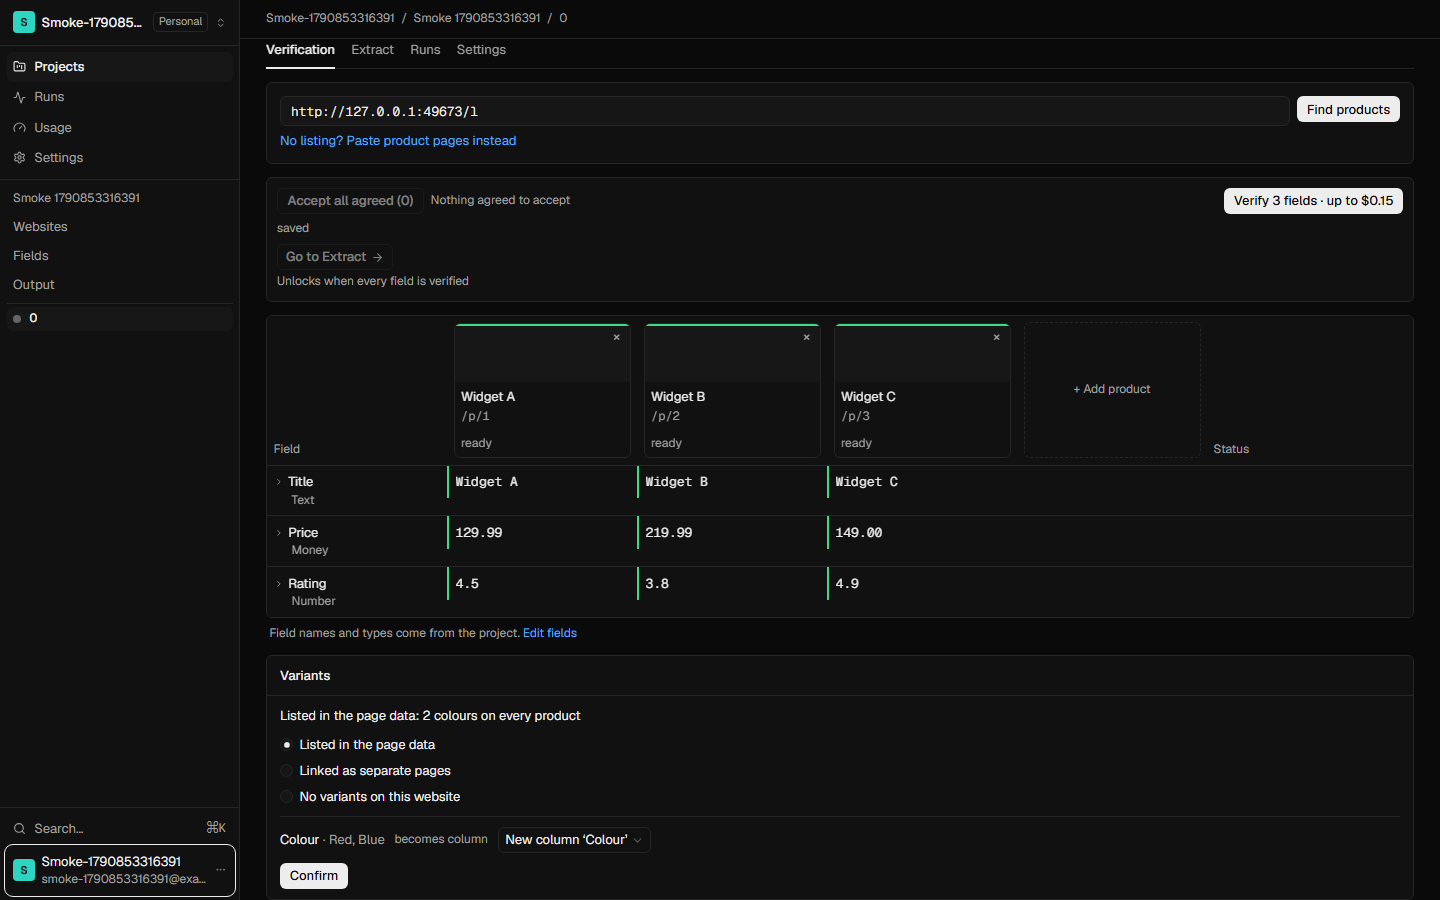
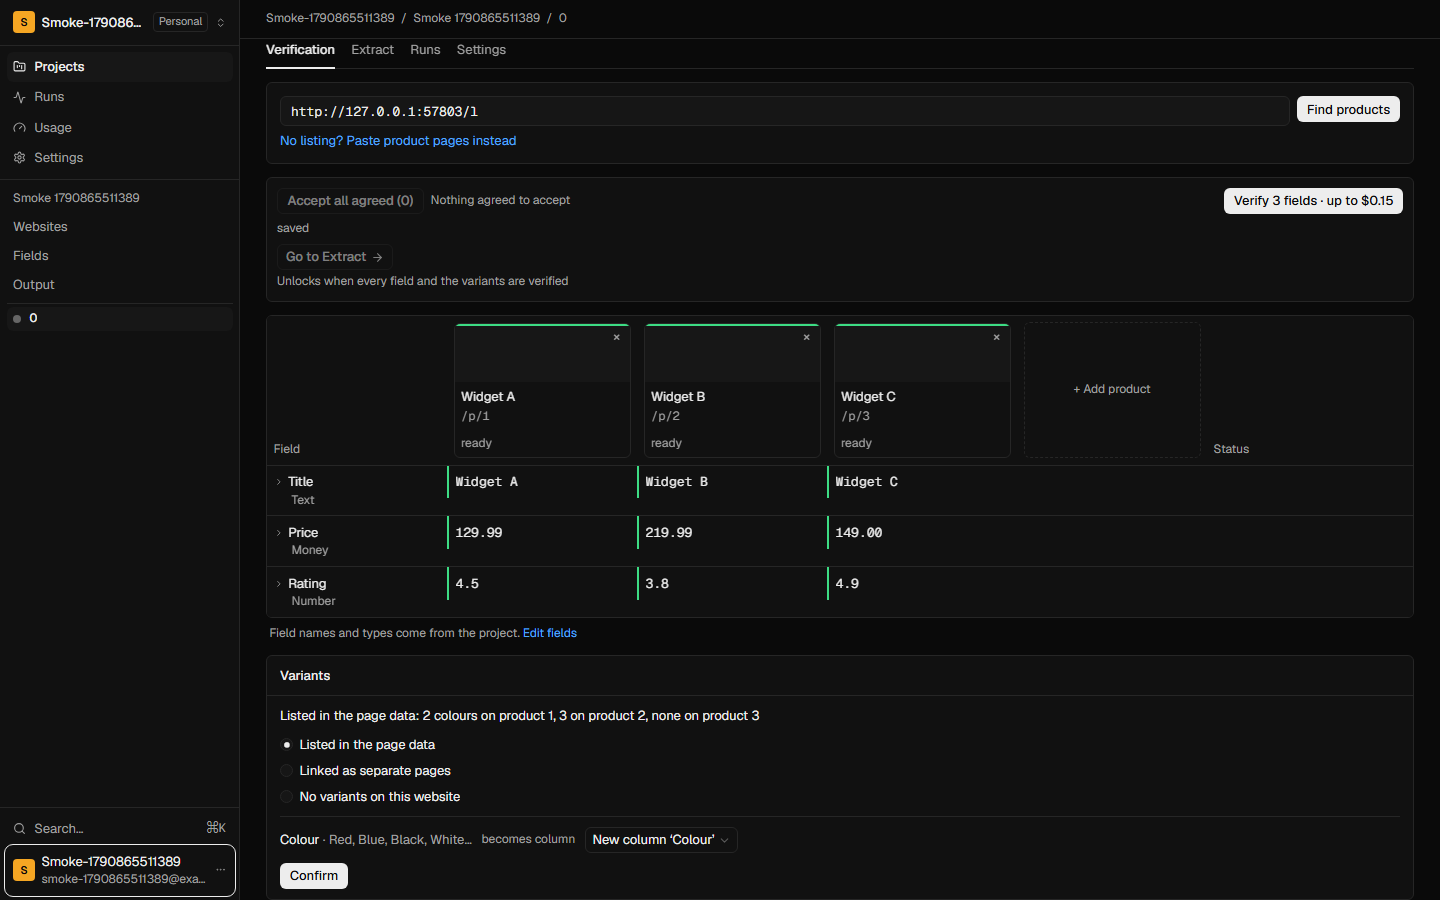
test(app): smoke the Variants row — confirm counts, check one variant, read Verify
The local shop now serves 2 and 3 colours on products 1 and 2 and none on
product 3, each variant with its SKU and price, and the products' own SKU.

diff --git a/packages/app/src/routes-smoke.test.ts b/packages/app/src/routes-smoke.test.ts
@@ -116,27 +116,41 @@ function shopPage(pathname: string): { type: string; body: string | Buffer } | n
   if (/^\/(i|img)\/[\w.-]+$/.test(pathname)) return { type: 'image/png', body: PIXEL };
   const product = PRODUCTS.find((p) => p.path === pathname);
   if (!product) return null;
-  const ld = [...product.page.structuredData.ldJson, variantGroup(product.path)]
+  // The product's own SKU, in its page data and on the page (the shop-example
+  // page keeps it in an empty element's attribute): what the SKU row reads.
+  const sku = /data-sku="([^"]+)"/.exec(product.page.html)?.[1] ?? '';
+  const group = variantGroup(product.path);
+  const ld = [...product.page.structuredData.ldJson.map((j, i) => (i === 0 ? { ...(j as object), sku } : j)), ...(group ? [group] : [])]
     .map((j) => `<script type="application/ld+json">${JSON.stringify(j)}</script>`)
     .join('');
-  return { type: 'text/html', body: product.page.html.replace('<html>', `<html><head><title>${product.title}</title>${ld}</head>`) };
+  const html = product.page.html.replace(`data-sku="${sku}"></span>`, `data-sku="${sku}">${sku}</span>`);
+  return { type: 'text/html', body: html.replace('<html>', `<html><head><title>${product.title}</title>${ld}</head>`) };
 }
 
 /**
- * Every product comes in two colours, said the way a shop's page data says it:
- * a `ProductGroup` whose `hasVariant` lists one entry per colour (spec
- * 2026-10-01 §3, "Listed in the page data"). The entries carry a colour and a
- * SKU only — no name, no price — so the Title and Price rows above still find
- * one value each.
+ * Products 1 and 2 come in colours — two and three — said the way a shop's
+ * page data says it: a `ProductGroup` whose `hasVariant` lists one entry per
+ * colour (spec 2026-10-01 §3, "Listed in the page data"). Product 3 has none.
+ * The entries carry a colour, a SKU and the product's own price, and no name —
+ * so the Title row above still finds one value each, and the variants' Price,
+ * SKU and Colour are there to be suggested when one variant is checked.
  */
-const VARIANT_COLOURS = ['Red', 'Blue'] as const;
+const VARIANT_COLOURS: Record<string, readonly string[]> = { '/p/1': ['Red', 'Blue'], '/p/2': ['Black', 'White', 'Grey'] };
 function variantGroup(productPath: string) {
+  const colours = VARIANT_COLOURS[productPath];
+  if (!colours) return null;
   const id = productPath.replace(/\W/g, '');
+  const price = PRODUCTS.find((p) => p.path === productPath)!.price.replace(/^\$/, '');
   return {
     '@context': 'https://schema.org',
     '@type': 'ProductGroup',
     variesBy: ['https://schema.org/color'],
-    hasVariant: VARIANT_COLOURS.map((color) => ({ '@type': 'Product', color, sku: `${id}-${color.toLowerCase()}` })),
+    hasVariant: colours.map((color) => ({
+      '@type': 'Product',
+      color,
+      sku: `${id}-${color.toLowerCase()}`,
+      offers: { '@type': 'Offer', price, priceCurrency: 'USD' },
+    })),
   };
 }
 
@@ -951,7 +965,7 @@ describe.skipIf(!ENABLED)('app shell', () => {
     const step = page.getByRole('region', { name: 'Variants' });
     await expect
       .poll(() => step.innerText().catch(() => ''), { timeout: 120_000, interval: 1000 })
-      .toContain('Listed in the page data: 2 colours on every product');
+      .toContain('Listed in the page data: 2 colours on product 1, 3 on product 2, none on product 3');
     expect(await page.getByRole('radio', { name: 'Listed in the page data', exact: true }).isChecked(), 'the suggestion is not preselected').toBe(true);
     const column = page.getByRole('combobox', { name: 'Column for Colour' });
     expect(await column.innerText(), 'a colour does not become a new Colour column').toContain('New column ‘Colour’');
@@ -984,6 +998,98 @@ describe.skipIf(!ENABLED)('app shell', () => {
 
     const unexpected = problems.filter((line) => !line.includes('status of 412'));
     expect(unexpected, `the refused delete logged errors:\n  ${unexpected.join('\n  ')}`).toEqual([]);
+  }, 300_000);
+
+  // Variants plan 2 (spec 2026-10-01 §4.1): the Variants row confirms each
+  // product's count and checks one variant. Free: everything here reads the
+  // captures already taken. Verify is read for its label, never pressed.
+  it('variants: the Variants row confirms the counts and checks one variant', async () => {
+    expect(websiteSlug, 'there is no website to confirm variants on').not.toBeNull();
+    problems.length = 0;
+
+    // 1. Two more variant-level fields: SKU (suggested from the list) and In
+    // stock (which the list does not carry — taken from the product page).
+    await page.goto(`${APP}/projects/${projectSlug}/fields`, { waitUntil: 'networkidle', timeout: 30_000 });
+    await waitForHydration(page, 'main');
+    for (const f of [{ name: 'SKU', type: 'Text' }, { name: 'In stock', type: 'Yes / no' }]) {
+      await page.getByRole('button', { name: `${f.name} ${f.type}`, exact: true }).click();
+      await page.getByRole('textbox', { name: `Name of ${f.name}` }).waitFor({ timeout: 20_000 });
+    }
+
+    // 2. Back on the website, every field is answered on every product, so
+    // Verify is only waiting on the variants.
+    await page.goto(`${APP}/projects/${projectSlug}/sites/${websiteSlug}`, { waitUntil: 'networkidle', timeout: 30_000 });
+    await waitForHydration(page, 'input[aria-label="Listing page"]');
+    await expect.poll(() => page.getByText('ready', { exact: true }).count(), { timeout: 90_000, interval: 1000 }).toBe(3);
+    for (const f of ['SKU', 'In stock']) {
+      for (let i = 1; i <= 3; i++) {
+        await expect.poll(async () => {
+          const state = await cellState(f, i);
+          if (state === 'suggested') {
+            const accept = page.getByRole('button', { name: `Accept ${f} on product ${i}`, exact: true });
+            if ((await accept.count()) === 1) await accept.click({ force: true });
+          }
+          return state;
+        }, { timeout: 30_000, message: `${f} on product ${i} could not be accepted` }).toBe('accepted');
+      }
+    }
+
+    // 3. The row: 2 and 3 colours found (orange), none on product 3 (grey).
+    const cell = (n: number) => page.locator(`[aria-label^="Variants on product ${n}: "]`);
+    await expect.poll(() => cell(1).getAttribute('aria-label'), { timeout: 30_000 }).toBe('Variants on product 1: 2 colours');
+    expect(await cell(2).getAttribute('aria-label')).toBe('Variants on product 2: 3 colours');
+    expect(await cell(3).getAttribute('aria-label')).toBe('Variants on product 3: No variants');
+    expect(await cell(1).getAttribute('class'), 'a found count is not orange').toContain('border-warn');
+    expect(await cell(3).getAttribute('class'), 'nothing found is not grey').toContain('border-line');
+    // Until every product's variants are confirmed, Verify does not offer them.
+    expect(await verifyButtonOf(page).innerText(), 'Verify offers variants nobody confirmed').not.toContain('and variants');
+
+    // 4. Tick both counts, and "No variants on this product" on product 3.
+    await page.getByRole('button', { name: 'Confirm the variants of product 1', exact: true }).click();
+    await page.getByRole('button', { name: 'Confirm the variants of product 2', exact: true }).click();
+    await page.getByRole('button', { name: 'No variants on product 3', exact: true }).click();
+    await expect.poll(() => cell(1).getAttribute('class'), { timeout: 20_000 }).toContain('border-pass');
+    await expect.poll(() => cell(2).getAttribute('class'), { timeout: 20_000 }).toContain('border-pass');
+    await expect.poll(() => cell(3).getAttribute('aria-label'), { timeout: 20_000 }).toBe('Variants on product 3: No variants on this product');
+
+    // 5. Expand: the first variant of each is checked. Accept its suggested
+    // Price, SKU and Colour, and take In stock from the product page.
+    await page.getByRole('rowheader', { name: /^Variants/ }).getByRole('button').click();
+    await expect.poll(() => page.locator('main').innerText(), { timeout: 20_000 }).toContain('Check this one');
+    for (const n of [1, 2]) {
+      for (const f of ['Price', 'SKU', 'Colour']) {
+        const accept = page.getByRole('button', { name: `Accept ${f} of the checked variant on product ${n}`, exact: true });
+        await accept.waitFor({ timeout: 20_000 });
+        await accept.click();
+      }
+      await page.getByRole('button', { name: `In stock of product ${n} from the product page`, exact: true }).click();
+    }
+
+    // 6. The answers reach the server (300 ms after the last change).
+    const api = apiAs(await sessionCookie(context));
+    const urlOf = (n: number) => `${SHOP}${PRODUCTS[n - 1]!.path}`;
+    type Stored = { variants?: Record<string, { count: number; spot?: { expected: Record<string, string>; fromProduct?: string[] } }> } | null;
+    const storedVariants = async () =>
+      ((await api.sources.get.query({ projectSlug: projectSlug!, sourceSlug: websiteSlug! })).verificationSet as Stored)?.variants ?? {};
+    await expect
+      .poll(async () => {
+        const v = await storedVariants();
+        return [1, 2].every((n) => Object.keys(v[urlOf(n)]?.spot?.expected ?? {}).length === 3 && v[urlOf(n)]?.spot?.fromProduct?.length === 1);
+      }, { timeout: 20_000, message: 'the checked variants were not saved' })
+      .toBe(true);
+    const v = await storedVariants();
+    expect(v[urlOf(1)]?.count).toBe(2);
+    expect(v[urlOf(2)]?.count).toBe(3);
+    expect(v[urlOf(3)]?.count).toBe(0);
+    expect(v[urlOf(1)]?.spot?.expected, 'product 1 checked the wrong variant').toMatchObject({ sku: 'p1-red' });
+
+    // 7. Verify now names the variants. Read, never clicked.
+    await expect.poll(() => verifyButtonOf(page).innerText(), { timeout: 20_000 }).toMatch(/ and variants · /);
+    expect(await verifyButtonOf(page).isDisabled(), 'Verify is not live once the variants are checked').toBe(false);
+
+    await page.getByRole('rowheader', { name: /^Variants/ }).scrollIntoViewIfNeeded();
+    await shootViewportBothThemes(page, 'app-site-verification-variants-row');
+    expect(problems, `the Variants row logged errors:\n  ${problems.join('\n  ')}`).toEqual([]);
   }, 300_000);
 
   it('a rename on the Settings tab reaches the server and comes back', async () => {
